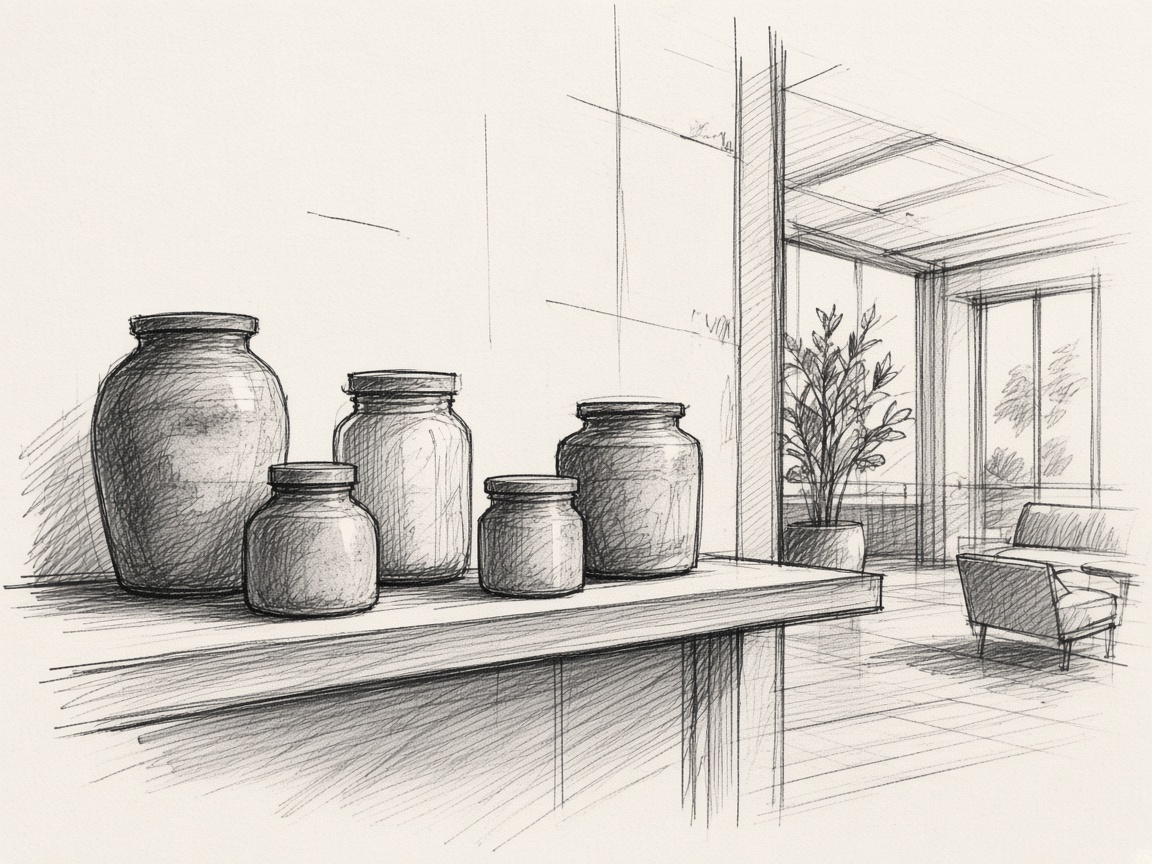
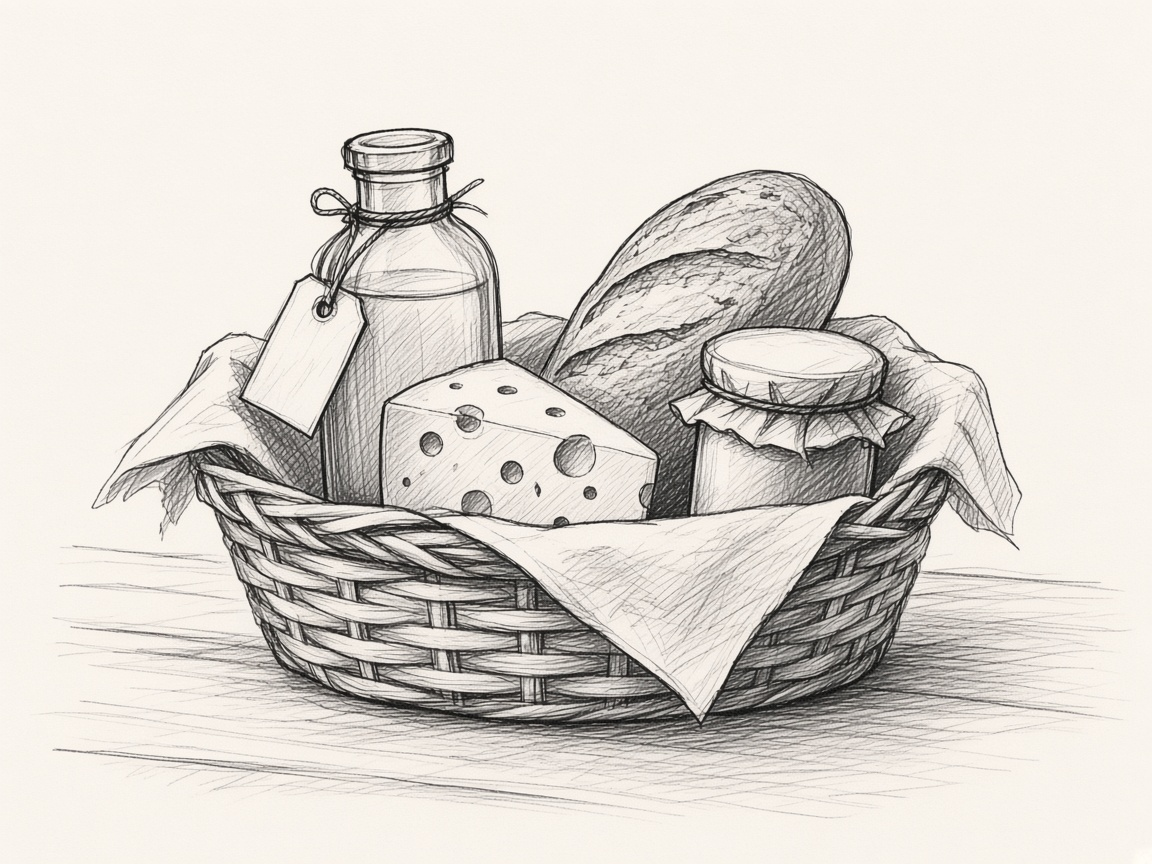
Show a gift basket souvenir on the tourist touchpoints card.
Cheese, bread, and a bottled drink with string read as something to take home.

diff --git a/index.html b/index.html
@@ -321,7 +321,7 @@
 
       <section class="beat beat-flip">
         <figure>
-          <img src="images/tourist-find.jpg" alt="A few local jars on a quiet shelf in a hotel lobby.">
+          <img src="images/tourist-find.jpg" alt="A small gift basket with a bottled drink tied with string, cheese, and bread.">
         </figure>
         <div class="beat-copy">
           <p class="kind">Hypothesis</p>
